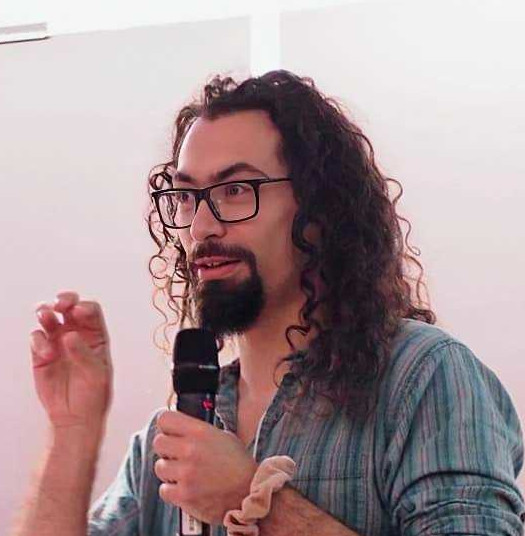
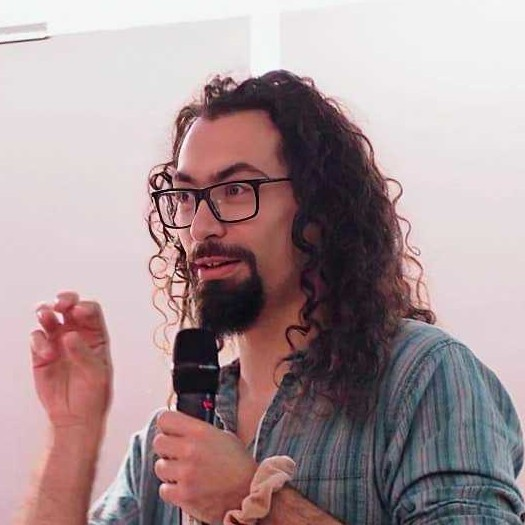
Add a placeholder page for the Reason to play session, and show affiliations on instructor cards.
- Add content/reason_to_play.md for the Monday 15:05-16:50 slot, with Csaba Botos (online) and Yann Harel (in person), marked as a placeholder with a tentative title.
- Link the session from the program and the table of contents, and drop the note that remaining sessions will be announced.
- Move Csaba Botos's photo out of drafts, rename it given-name-first, and crop it and Yann Harel's photo to square.
- Remove the superseded drafts/vgdl_reasoning.md.
- Add an affiliation line under each instructor name on all session pages.

diff --git a/content/reason_to_play.md b/content/reason_to_play.md
@@ -1,0 +1,58 @@
+# Reason to play
+
+:::{note}
+**This page is a placeholder.** The instructors for this session are confirmed, but the title, overview and objectives are tentative and will be updated soon.
+:::
+
+**When:** Monday October 26th 2026, 15:05-16:50
+
+**Tentative title:** Reason to play: hands-on tutorial on the behavioral and brain alignment between frontier LRMs and human game learners
+
+## Overview
+
+How do humans learn to play a new videogame in a few minutes, when reinforcement learning agents need millions of frames? This hands-on tutorial examines how frontier large reasoning models (LRMs) learn new games, and how their behavior and internal representations align with those of human players and their brain activity. Yann Harel will lead the session in person, and Csaba Botos will join online.
+
+## Instructors
+
+:::::{grid} 1 2 2 2
+
+::::{grid-item}
+:::{div}
+:class: text-center
+```{image} images/profile_csaba_botos.jpg
+:alt: Csaba Botos
+:width: 200px
+:align: center
+```
+**[Csaba Botos](https://botcs.github.io/academic/)**\
+Google DeepMind
+:::
+::::
+
+::::{grid-item}
+:::{div}
+:class: text-center
+```{image} images/profile_yann_harel.jpg
+:alt: Yann Harel
+:width: 200px
+:align: center
+```
+**[Yann Harel](https://scholar.google.com/citations?user=2K-2LacAAAAJ&hl=fr)**\
+Boston College
+:::
+::::
+:::::
+
+**Csaba Botos** is a senior research scientist at Google DeepMind. He completed his DPhil in Engineering Science at the University of Oxford with Philip Torr and Adel Bibi. He led "Reason to Play", a study of the behavioral and brain alignment between frontier large reasoning models and human game learners.
+
+**Yann Harel** is a postdoctoral researcher at Boston College, working at the intersection of brain imaging, cognitive neuroscience and interactive environments. He contributed to the Courtois NeuroMod project, where he helped design and build naturalistic neuroimaging datasets linking real-time videogame behavior with fMRI, physiological and eye-tracking data. His research draws on large-scale open datasets, electrophysiology (EEG, MEG) and fMRI to study learning, attention and flow, as well as practical aspects of human-AI alignment.
+
+## Objectives
+
+ * Discover how frontier large reasoning models learn to play new games.
+ * Compare the learning curves of large reasoning models and human players.
+ * Learn how to assess the alignment between large reasoning models, human behavior and brain activity.
+
+## Materials
+
+Coming soon.

diff --git a/content/program.md b/content/program.md
@@ -1,7 +1,7 @@
 # Program
 
 :::{note}
-**This program is preliminary.** Session details may still change, and the remaining sessions will be announced soon.
+**This program is preliminary.** Session details may still change.
 :::
 
 MAIN educational 2026 will run on a single track over two days, on October 26th-27th 2026, at the [CRIUGM](venue). The first day focuses on **reasoning about the world** (world models and embodied agents), and the second day on **benchmarking**, i.e. the alignment between the brain, behaviour and AI models.
@@ -18,7 +18,7 @@ MAIN educational 2026 will run on a single track over two days, on October 26th-
  * 12:05-13:00 **Lunch provided**
  * 13:00-14:45 **[Active vision with deep neural networks](active_vision)**
  * 14:45-15:05 **Break with coffee and snack**
- * 15:05-16:50 **Session to be announced**
+ * 15:05-16:50 **[Reason to play](reason_to_play)**: hands-on tutorial with Yann Harel (in person) and Csaba Botos (online), tentative title
 
 ## Tuesday October 27th: benchmarking brain-behaviour-model alignment
 
@@ -35,6 +35,7 @@ More details on each session can be found on the following pages:
 
  * [World models and embodied agents](world_models)
  * [Active vision with deep neural networks](active_vision)
+ * [Reason to play](reason_to_play) (placeholder)
  * [Cognitive benchmarking in large models](llm_reasoning_eval)
  * [Alignment across modalities and across brains](alignment)
 

diff --git a/content/active_vision.md b/content/active_vision.md
@@ -18,7 +18,8 @@ This workshop explores active vision in deep neural networks, moving beyond the 
 :width: 200px
 :align: center
 ```
-**[Motahareh Pourrahimi](https://mila.quebec/en/directory/motahareh-pourrahimi)**
+**[Motahareh Pourrahimi](https://mila.quebec/en/directory/motahareh-pourrahimi)**\
+Mila and McGill University
 
 <a href="mailto:motahareh.pourrahimi@mail.mcgill.ca"><img src="images/icons/email.svg" alt="Email" width="20"></a>&emsp;<a href="https://bsky.app/profile/motaharehpr.bsky.social"><img src="images/icons/bluesky.svg" alt="Bluesky" width="20"></a>&emsp;<a href="https://x.com/MotaharehPR"><img src="images/icons/x.svg" alt="X" width="20"></a>
 :::
@@ -32,7 +33,8 @@ This workshop explores active vision in deep neural networks, moving beyond the 
 :width: 200px
 :align: center
 ```
-**[Hafez Ghaemi](https://hafezgh.github.io/)**
+**[Hafez Ghaemi](https://hafezgh.github.io/)**\
+Mila and Université de Montréal
 
 <a href="mailto:hafez.ghaemi@umontreal.ca"><img src="images/icons/email.svg" alt="Email" width="20"></a>&emsp;<a href="https://bsky.app/profile/hafezghm.bsky.social"><img src="images/icons/bluesky.svg" alt="Bluesky" width="20"></a>&emsp;<a href="https://x.com/hafezghm"><img src="images/icons/x.svg" alt="X" width="20"></a>
 :::

diff --git a/content/alignment.md b/content/alignment.md
@@ -29,7 +29,8 @@ This session is about alignment: finding a common space in which different repre
 :width: 200px
 :align: center
 ```
-**[Aishwarya Agrawal](https://www.iro.umontreal.ca/~agrawal/index.html)**
+**[Aishwarya Agrawal](https://www.iro.umontreal.ca/~agrawal/index.html)**\
+Université de Montréal and Mila
 :::
 ::::
 
@@ -41,7 +42,8 @@ This session is about alignment: finding a common space in which different repre
 :width: 200px
 :align: center
 ```
-**[Elizabeth DuPre](https://elizabeth-dupre.com/)**
+**[Elizabeth DuPre](https://elizabeth-dupre.com/)**\
+Université de Montréal
 :::
 ::::
 :::::

diff --git a/content/world_models.md b/content/world_models.md
@@ -25,7 +25,8 @@ This session opens the "reasoning about the world" day. A 45-minute lecture, fol
 :width: 200px
 :align: center
 ```
-**[Sonia Joseph](https://soniajoseph.github.io/)**
+**[Sonia Joseph](https://soniajoseph.github.io/)**\
+McGill University and Mila
 :::
 ::::
 
@@ -37,7 +38,8 @@ This session opens the "reasoning about the world" day. A 45-minute lecture, fol
 :width: 200px
 :align: center
 ```
-**[Glen Berseth](https://neo-x.github.io/)**
+**[Glen Berseth](https://neo-x.github.io/)**\
+Université de Montréal and Mila
 :::
 ::::
 :::::

diff --git a/content/llm_reasoning_eval.md b/content/llm_reasoning_eval.md
@@ -22,7 +22,8 @@ The LLM and VLM sections will each include:
 :width: 200px
 :align: center
 ```
-**[Lucas Gomez](https://www.lucasgomez.ca/about)**
+**[Lucas Gomez](https://www.lucasgomez.ca/about)**\
+McGill University
 :::
 ::::
 
@@ -34,7 +35,8 @@ The LLM and VLM sections will each include:
 :width: 200px
 :align: center
 ```
-**[Zihan Weng](https://zh-weng.github.io/)**
+**[Zihan Weng](https://zh-weng.github.io/)**\
+McGill University
 :::
 ::::
 :::::
